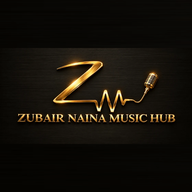
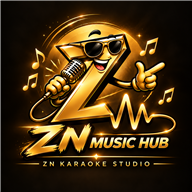
Add files via upload

diff --git a/index.html b/index.html
@@ -2,7 +2,7 @@
 <html lang="en">
 <head>
 <meta charset="utf-8"><meta name="viewport" content="width=device-width,initial-scale=1,viewport-fit=cover"><meta name="theme-color" content="#101012"><meta name="description" content="ZN Karaoke Studio — bring your tracks, tune the sound, and sing along."><meta name="author" content="Firdous Kochi · ZN Music Hub"><title>ZN Karaoke Studio</title>
-<link rel="manifest" href="manifest.webmanifest"><link rel="icon" href="icon-full-192.png" type="image/png">
+<link rel="manifest" href="manifest.webmanifest"><link rel="icon" href="icon-192.png" type="image/png"><link rel="apple-touch-icon" href="icon-192.png">
 <style>
 @import url('https://fonts.googleapis.com/css2?family=DM+Sans:wght@400;500;600;700&family=Manrope:wght@400;500;600;700;800&display=swap');
 :root{color-scheme:dark;--bg:#101012;--panel:#19191d;--panel2:#202025;--muted:#9999a5;--text:#f5f3f7;--line:#2b2a31;--pink:#fa4f91;--purple:#a889ff;--green:#a7ee8c}*{box-sizing:border-box}body{margin:0;background:radial-gradient(ellipse at 80% -15%,#37203d 0,transparent 34%),var(--bg);color:var(--text);font-family:'DM Sans',sans-serif;min-height:100vh}button,input{font:inherit}button{color:inherit;cursor:pointer}.shell{max-width:1240px;margin:auto;padding:0 38px}.topbar{height:76px;border-bottom:1px solid #ffffff10;display:flex;align-items:center;justify-content:space-between}.brand{font:800 20px Manrope,sans-serif;letter-spacing:-.7px;display:flex;align-items:center;gap:10px}.brand-mark{width:32px;height:32px;border-radius:11px;background:linear-gradient(145deg,#fd73a5,#ab75ff);display:grid;place-items:center;color:#16121b;font-size:18px}.top-actions{display:flex;align-items:center;gap:10px}.pill{font-size:12px;color:#c6c2cd;background:#242329;padding:8px 13px;border-radius:20px}.avatar{width:34px;height:34px;border-radius:50%;background:#443451;color:#ffc6dd;display:grid;place-items:center;font-weight:700}.hero{padding:43px 0 28px;display:flex;justify-content:space-between;align-items:end;gap:24px}.eyebrow{font-size:11px;font-weight:700;letter-spacing:2px;color:#faa3c5;text-transform:uppercase;margin-bottom:12px}.hero h1{font:800 clamp(32px,5vw,48px)/1.08 Manrope,sans-serif;letter-spacing:-2.3px;margin:0}.hero p{color:var(--muted);margin:13px 0 0;font-size:14px}.search{height:48px;background:#1b1a20;border:1px solid #34323a;border-radius:12px;display:flex;align-items:center;padding:0 14px;gap:11px;width:min(390px,100%)}.search input{border:0;outline:0;color:var(--text);background:none;flex:1;min-width:0}.search input::placeholder{color:#7e7b86}.search kbd{font-size:10px;color:#8d8994;border:1px solid #393741;border-radius:5px;padding:4px 6px}.layout{display:grid;grid-template-columns:minmax(0,1.56fr) minmax(320px,.9fr);gap:22px;padding-bottom:40px}.leftcol,.rightcol{display:flex;flex-direction:column;gap:18px}.feature{min-height:258px;border-radius:19px;overflow:hidden;position:relative;padding:26px 29px;background:linear-gradient(110deg,#39203b,#201c29 57%,#191920);border:1px solid #ffffff0c}.feature:after{content:'♫';position:absolute;right:6%;top:-42px;font:270px Manrope,sans-serif;color:#fa75ab19;transform:rotate(8deg)}.feature>*{position:relative;z-index:1}.feature-tag{display:inline-flex;gap:7px;align-items:center;background:#ffffff13;padding:7px 10px;border-radius:20px;font-size:10px;letter-spacing:1px;text-transform:uppercase}.live-dot{width:6px;height:6px;background:#f889bb;border-radius:50%}.feature h2{font:700 26px Manrope;margin:20px 0 7px;letter-spacing:-.7px}.feature p{color:#c6b9c9;font-size:13px;max-width:350px;line-height:1.5;margin:0}.actions{display:flex;gap:9px;margin-top:20px}.btn{background:#f6f2f7;color:#201922;border:0;border-radius:9px;padding:11px 15px;font-weight:700;font-size:12px;display:inline-flex;align-items:center;gap:8px}.btn.secondary{background:#ffffff12;color:#fff;border:1px solid #ffffff1c}.btn.pink{background:var(--pink);color:#24121a}.upload{display:none}.native-file-control{height:40px;max-width:100%;color:#d6d2dc;font:600 11px 'DM Sans',sans-serif;background:transparent;border:0;border-radius:9px}.native-file-control::file-selector-button,.native-file-control::-webkit-file-upload-button{height:40px;padding:0 15px;margin-right:9px;border:0;border-radius:9px;background:#f6f2f7;color:#201922;font:700 12px 'DM Sans',sans-serif;cursor:pointer}.creator .native-file-control::file-selector-button,.creator .native-file-control::-webkit-file-upload-button{background:linear-gradient(145deg,#ffe8a5,#bd8b30);color:#21180a}.section-head{display:flex;align-items:center;justify-content:space-between;margin:5px 1px 10px}.section-head h3{margin:0;font:700 16px Manrope;letter-spacing:-.3px}.section-head button{background:none;border:0;color:#f68ab5;font-size:11px}.tracks{display:flex;flex-direction:column;gap:7px}.track{display:grid;grid-template-columns:43px minmax(0,1fr) auto;align-items:center;gap:12px;padding:9px 11px;border:1px solid transparent;border-radius:12px;transition:.18s;cursor:pointer}.track:hover,.track.active{background:#1c1b21;border-color:#302d36}.cover{width:43px;height:43px;border-radius:9px;display:grid;place-items:center;font-size:17px;font-weight:700;color:#fff0f4;background:linear-gradient(140deg,#de647f,#642f70)}.cover.c2{background:linear-gradient(140deg,#588bc0,#35376a)}.cover.c3{background:linear-gradient(140deg,#d89251,#754044)}.cover.c4{background:linear-gradient(140deg,#71a482,#27534d)}.track-name{font-size:12px;font-weight:700;overflow:hidden;text-overflow:ellipsis;white-space:nowrap}.artist{font-size:10px;color:var(--muted);margin-top:4px;overflow:hidden;text-overflow:ellipsis;white-space:nowrap}.track-meta{display:flex;align-items:center;gap:12px;color:#888590;font-size:10px}.play-mini{border:0;background:none;color:#e8dfe9;font-size:15px;padding:5px}.empty{padding:26px;text-align:center;border:1px dashed #393640;border-radius:12px;color:#9d99a4;font-size:12px}.side-card{background:#19191d;border:1px solid #ffffff0d;border-radius:16px;padding:18px}.side-card h3{font:700 14px Manrope;margin:0}.side-card .sub{font-size:10px;color:#8f8c97;margin:5px 0 16px}.now{display:flex;gap:12px;align-items:center}.now .cover{width:53px;height:53px}.now-title{font-size:12px;font-weight:700}.now-artist{font-size:10px;color:var(--muted);margin-top:4px}.wave{height:61px;margin:16px 0 7px;display:flex;align-items:center;justify-content:center;gap:3px;overflow:hidden}.wave span{width:3px;min-height:5px;border-radius:4px;background:linear-gradient(to top,#ad74f9,#fa71a9);opacity:.77}.wave.paused span{opacity:.2}.seekline{height:4px;background:#34323a;border-radius:8px;position:relative;margin:6px 2px}.seekline i{height:100%;width:0;display:block;background:linear-gradient(90deg,#bd79ff,#f977a8);border-radius:8px}.times{display:flex;justify-content:space-between;color:#888590;font-size:9px;margin:7px 1px}.controls{display:flex;align-items:center;justify-content:center;gap:21px;margin-top:12px}.controls button{border:0;background:none;font-size:16px;color:#d6d1dc;padding:5px}.controls .mainplay{width:42px;height:42px;border-radius:50%;background:#f7f2f8;color:#1e1922;font-size:16px;display:grid;place-items:center}.controls .rec{color:#ff73a0}.status{display:flex;align-items:center;justify-content:space-between;margin-top:14px;padding-top:13px;border-top:1px solid var(--line);font-size:10px;color:#98949f}.status b{font-weight:500;color:#d4cfda}.rec-state{color:#f27ca3!important}.sliders{display:grid;grid-template-columns:1fr 1fr;gap:13px 18px;margin-top:16px}.control label{font-size:10px;color:#b8b4c0;display:flex;justify-content:space-between;margin-bottom:7px}.control output{color:#f9a0bf}.control input{width:100%;height:4px;accent-color:#f178a9;cursor:pointer}.control.wide{grid-column:1/-1}.quick{display:grid;grid-template-columns:repeat(3,1fr);gap:7px;margin-top:15px}.quick button{background:#242329;border:1px solid #302f36;border-radius:8px;padding:8px 3px;font-size:9px;color:#c4c0ca}.quick button.on{border-color:#ac7aff;color:#d7bfff}.tips{color:#918d98;font-size:10px;line-height:1.5;margin:12px 0 0}.bottom{padding:15px 0 28px;border-top:1px solid #ffffff0c;display:flex;justify-content:space-between;color:#77747e;font-size:10px}.toast{position:fixed;bottom:22px;left:50%;transform:translate(-50%,20px);opacity:0;pointer-events:none;transition:.2s;background:#f5f1f6;color:#201b25;padding:11px 16px;border-radius:10px;font-size:12px;box-shadow:0 8px 30px #0008;z-index:5}.toast.show{opacity:1;transform:translate(-50%,0)}
@@ -19,7 +19,7 @@
 .side-card{position:relative}.countdown-overlay{position:absolute;inset:0;z-index:20;display:grid;place-items:center;padding:20px;border:1px solid #d9b85e88;border-radius:16px;background:#090908f5;backdrop-filter:blur(7px);text-align:center}.countdown-overlay[hidden]{display:none!important}.countdown-content{display:flex;flex-direction:column;align-items:center;gap:12px}.countdown-content span{display:block;color:#ffe6a3;font:800 clamp(112px,28vw,190px)/.9 Manrope,sans-serif;text-shadow:0 0 35px #d9b85e70;animation:count-pulse .85s ease-in-out infinite alternate}.countdown-content strong{color:#f6e5b7;font:700 clamp(17px,4vw,24px) Manrope,sans-serif}.countdown-content small{color:#bdb4a2;font-size:12px}@keyframes count-pulse{from{transform:scale(.96);opacity:.8}to{transform:scale(1.04);opacity:1}}
 </style><style>.brand{color:var(--gold-hi);text-shadow:0 1px 16px #ddb95642}.brand-mark{background:linear-gradient(145deg,#ffe8a5,#bd8b30);color:#21180a}.hero .eyebrow{color:var(--gold)}.avatar{background:#45371f;color:var(--gold-hi)}.topbar{border-bottom-color:#e4bd6926}.bottom{justify-content:center;flex-direction:column;gap:6px;text-align:center;transform:translateY(-8px)}.bottom span{width:100%}.studio-head{display:flex;align-items:center;justify-content:space-between;gap:8px}.reset-btn{flex:none;border:1px solid #d9b85e70;border-radius:8px;background:#d9b85e12;color:#ffe6a3;padding:7px 9px;font:600 10px "DM Sans",sans-serif}.reset-btn:hover{background:#d9b85e26}.reset-btn:focus-visible{outline:2px solid #ffe6a3;outline-offset:2px}:root{--bg:#090908;--panel:#151411;--panel2:#201d17;--muted:#aaa397;--text:#f4f0e6;--line:#383126;--pink:#d8ad56;--purple:#ffe19a;--green:#c6a45a;--gold:#d9b85e;--gold-hi:#ffe6a3}body{background:radial-gradient(ellipse at 80% -15%,#30220c 0,transparent 34%),var(--bg)}.feature{background:linear-gradient(110deg,#211b10,#15130f 57%,#131210);border-color:#d9b85e33}.feature:after{color:#d9b85e0d}.side-card{background:#151411;border-color:#d9b85e18}.controls .rec{color:#ff6262}.topbar{height:100px}.brand{gap:12px;white-space:nowrap}.brand-logo{display:block;width:176px;height:88px;object-fit:contain;border-radius:5px}.brand-title{font:800 15px Manrope,sans-serif;color:var(--gold-hi)}.quote{margin:16px 0 0;color:#e7c971;font-size:14px;font-style:italic;font-weight:600;letter-spacing:.1px}@media(max-width:560px){.topbar{height:76px}.brand{gap:8px}.brand-logo{width:112px;height:56px}.brand-title{font-size:12px}}.install-help{max-width:1240px;margin:-18px auto 24px;padding:18px 20px;border:1px solid #d9b85e40;border-radius:15px;background:linear-gradient(145deg,#1b1812,#12110f);color:var(--text)}.install-help h3{margin:0 0 9px;font:700 15px Manrope,sans-serif;color:var(--gold-hi)}.install-help ol{margin:0;padding-left:22px;color:#d7d0c3;font-size:12px;line-height:1.75}.install-help p{margin:9px 0 0;color:#aaa397;font-size:11px;line-height:1.55}.install-help strong{color:#e7c971}.feedback-card{max-width:1240px;margin:0 auto 24px;padding:18px 20px;border:1px solid #d9b85e40;border-radius:15px;background:linear-gradient(145deg,#1b1812,#12110f)}.feedback-card h3{margin:0;font:700 15px Manrope,sans-serif;color:var(--gold-hi)}.feedback-form{display:grid;gap:8px;max-width:620px}.feedback-form label{font-size:11px;color:#d7d0c3}.feedback-form input,.feedback-form textarea{width:100%;border:1px solid #40382a;border-radius:8px;background:#10100e;color:var(--text);padding:10px;font:12px/1.5 "DM Sans",sans-serif}.feedback-form textarea{resize:vertical}.feedback-form input:focus,.feedback-form textarea:focus{outline:2px solid #d9b85e;outline-offset:1px}.feedback-form button{justify-self:start;margin-top:4px}</style></head>
 <body><div class="shell">
-<header class="topbar"><div class="brand"><img class="brand-logo" src="zn-music-hub-logo.webp" alt="Zubair Naina Music Hub logo"><span class="brand-title">ZN Karaoke Studio</span></div><nav class="page-nav" aria-label="Studio pages"><a href="#player" id="navPlayer">Player</a><a href="#creator" id="navCreator">Karaoke Creator</a></nav><div class="top-actions"><span class="pill">YOUR PRIVATE SINGING ROOM</span><span class="avatar">Z</span></div></header>
+<header class="topbar"><div class="brand"><img class="brand-logo" src="zn-karaoke-studio-logo.png" alt="Zubair Naina Music Hub logo"><span class="brand-title">ZN Karaoke Studio</span></div><nav class="page-nav" aria-label="Studio pages"><a href="#player" id="navPlayer">Player</a><a href="#creator" id="navCreator">Karaoke Creator</a></nav><div class="top-actions"><span class="pill">YOUR PRIVATE SINGING ROOM</span><span class="avatar">Z</span></div></header>
 <section class="hero" id="studioHero"><div><div class="eyebrow">Your voice, your stage</div><h1>Make a song<br>your stage.</h1><p>Create an instrumental from a song on your device, tune the backing, and sing.</p><blockquote class="quote">“The music sets the stage; your voice makes it yours.”</blockquote></div></section>
 <main class="layout" id="playerPage"><div class="leftcol"><section class="feature"><span class="feature-tag"><i class="live-dot"></i> READY WHEN YOU ARE</span><h2>Make any song your stage.</h2><p>Create a karaoke instrumental from a song on your device, tune it to your voice, and sing along. Your library stays on this device.</p><div class="actions"><input class="native-file-control" id="fileInput" type="file" accept="audio/*,.mp3,.m4a,.wav,.aac,.ogg,.flac,.opus" multiple aria-label="Add audio tracks"><button class="btn secondary" id="demoBtn">▶ Try a demo</button></div><p class="import-status" id="importStatus" role="status" aria-live="polite"><b>Import status:</b> Waiting for files from this device.</p></section>
 <section><div class="section-head"><h3>Your library <span id="count" style="color:#77747e;font:500 11px 'DM Sans'">· 0 tracks</span></h3><div class="library-actions"><button class="clear-library" id="clearLibrary" type="button">Clear device library</button><button id="sortBtn">Recently added⌄</button></div></div><div class="tracks" id="tracks"></div></section>

diff --git a/README.md b/README.md
@@ -26,12 +26,12 @@ Audio separation can leave some vocal sounds or remove parts of instruments. Res
 
 ## Logo asset
 
-Keep zn-music-hub-logo.webp beside index.html when hosting the site; the header loads it directly.
+Keep zn-karaoke-studio-logo.png beside index.html; the header uses this full artwork.
 
 
 ## Install icon and name
 
-The install name is ZN Karaoke Studio. Keep icon-full-192.png and icon-full-512.png beside index.html and manifest.webmanifest so browsers can use the complete ZN Music Hub logo for the installed app icon.
+The install name is ZN Karaoke Studio. Keep icon-192.png and icon-512.png beside index.html and manifest.webmanifest. These square icons focus on the gold Z mascot so the app stays recognizable on a phone. The full artwork is available as icon-full-192.png and icon-full-512.png.
 
 
 ## iPhone and iPad installation
